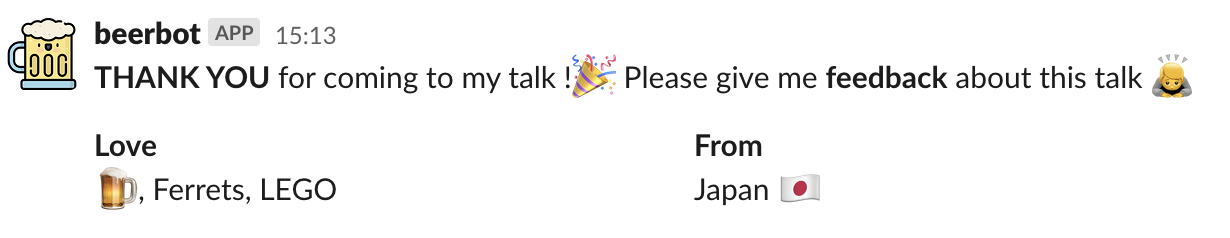
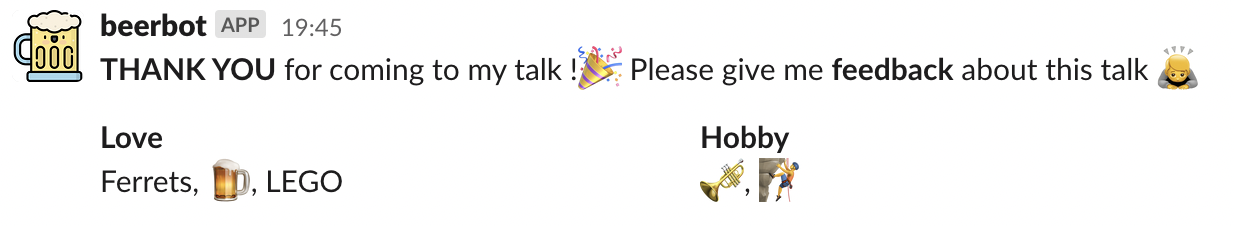
refs #69 update sample code

diff --git a/slides/20221015pyconjp/code/app-extend.py b/slides/20221015pyconjp/code/app-extend.py
@@ -22,15 +22,16 @@ def handle_cheers_message(mesasge, say):
     say("Cheers! :beers:")
 
 
-# mention
 @app.message("morning")
 def handle_morning_message(message, say):
+    """reply morning greetings with mention"""
     user = message["user"]  # get user ID
     say(f"Good morning <@{user}>!")
 
 
 @app.message(re.compile(r"choice (.*)"))
 def handle_choice(say, context):
+    """random choice from words"""
     # get matched text from context["matches"]
     words = context["matches"][0].split()
     say(random.choice(words))
@@ -38,48 +39,50 @@ def handle_choice(say, context):
 
 @app.message(re.compile(r"(\d+)\s*(beer|tea)"))
 def handle_beer_or_tea(say, context):
+    """serve a specified number of beers or teas"""
     count = int(context["matches"][0])
-    drink = context["matches"][1]
-    say(f":{drink}:" * count)
+    beer_or_tea = context["matches"][1]
+    say(f":{beer_or_tea}:" * count)
 
 
 @app.message("follow me")
 def handle_follow_me(message, say):
+    """send follow me message with icon"""
     blocks = [{
         "type": "section",
         "text": {
             "type": "mrkdwn",
-            "text": "*Takanori Suzuki*\nFollow me! <https://twitter.com/takanory|@takanory>"
+            "text": "*Takanori Suzuki*\nFollow me! <https://twitter.com/takanory|@takanory>",
         },
         "accessory": {
-            "type": "image",
+            "type": "image", "alt_text": "takanory",
             "image_url": "https://pbs.twimg.com/profile_images/192722095/kurokuri_400x400.jpg",
-            "alt_text": "takanory"
         }}]
     say(blocks=blocks)
-
-
-# A user joined a public or private channel
-@app.event("member_joined_channel")
-def member_joined(event, say):
-    user = event["user"]  # get user ID
-    say(f"Welcome <@{user}>! :tada:")
-
-
-@app.message("beer")
-def add_beer_emoji(client, message):
-    # add reaction beer emoji
-    client.reactions_add(
-        channel=message["channel"],
-        timestamp=message["ts"],
-        name="beer",
-    )
 
 
 @app.message("log")
 def handle_log(message, say, logger):
     logger.debug(f"message: {message['text']}")
     say("logs exported!")
+    
+
+# A user joined a public or private channel
+@app.event("member_joined_channel")
+def member_joined(event, say):
+    """send a welcome message to a new member"""
+    user = event["user"]  # get user ID
+    say(f"Welcome <@{user}>! :tada:")
+
+
+@app.message("beer")
+def add_beer_emoji(client, message):
+    """add :beer: emoji reaciton"""
+    client.reactions_add(
+        channel=message["channel"],
+        timestamp=message["ts"],
+        name="beer",
+    )
 
 
 if __name__ == "__main__":

diff --git a/slides/20221015pyconjp/code/app.py b/slides/20221015pyconjp/code/app.py
@@ -1,25 +1,14 @@
 import os
-import random
-import re
-
 from slack_bolt import App
 from slack_bolt.adapter.socket_mode import SocketModeHandler
 
 app = App(token=os.environ["SLACK_BOT_TOKEN"])
-
 
 # match any message contains "Hi"
 @app.message("Hi")
 def handle_hi_message(message, say):
     say("Hi!!! I am beerbot! :beer:")
 
-
-# match any message contains "cheers"
-@app.message("cheers")
-def handle_cheers_mesasge(message, say):
-    say("Cheers! :beers:")
-
-
 if __name__ == "__main__":
-    handler = SocketModeHandler(app, os.environ["SLACK_APP_TOKEN"])
-    handler.start()
+    app_token = os.environ["SLACK_APP_TOKEN"]
+    SocketModeHandler(app, app_token).start()

diff --git a/slides/20221015pyconjp/index.rst b/slides/20221015pyconjp/index.rst
@@ -52,7 +52,7 @@ Slide 💻
 
 .. raw:: html
 
-   <blockquote class="twitter-tweet"><p lang="en" dir="ltr">My talk &quot;Automate the Boring Stuff with Slackbot (ver. 2)&quot; slides are <a href="https://t.co/YfAyUxQT0e">https://t.co/YfAyUxQT0e</a> <a href="https://twitter.com/hashtag/EuroPython2022?src=hash&amp;ref_src=twsrc%5Etfw">#EuroPython2022</a></p>&mdash; Takanori Suzuki (@takanory) <a href="https://twitter.com/takanory/status/1547222521648390149?ref_src=twsrc%5Etfw">July 13, 2022</a></blockquote> <script async src="https://platform.twitter.com/widgets.js" charset="utf-8"></script> 
+   <blockquote class="twitter-tweet"><p lang="en" dir="ltr">My talk &quot;Automate the Boring Stuff with Slackbot (ver. 2)&quot; slides are <a href="https://t.co/YfAyUxQT0e">https://t.co/YfAyUxQT0e</a> <a href="https://twitter.com/hashtag/EuroPython2022?src=hash&amp;ref_src=twsrc%5Etfw">#EuroPython2022</a></p>&mdash; Takanori Suzuki (@takanory) <a href="https://twitter.com/takanory/status/1547222521648390149?ref_src=twsrc%5Etfw">July 13, 2022</a></blockquote> <script async src="https://platform.twitter.com/widgets.js" charset="utf-8"></script>
 
 .. revealjs-notes::
 
@@ -437,15 +437,16 @@ Post message with **Slack SDK**
 * see: `Formatting text for app surfaces <https://api.slack.com/reference/surfaces/formatting>`_
 
 .. revealjs-code-block:: python
-   :data-line-numbers: 4-7
+   :data-line-numbers: 4-8
 
    from slack_sdk.webhook import WebhookClient
 
    url = "https://hooks.slack.com/services/T000..."
    webhook = WebhookClient(url)
    # *bold*, <url|text>, :emoji: and etc.
-   r = webhook.send(text="*Hello* from "
-     "<https://slack.dev/python-slack-sdk/|Slack SDK>! :beer:")
+   sdk_url = "https://slack.dev/python-slack-sdk/"
+   r = webhook.send(
+       text=f"*Hello* from <{sdk_url}|Slack SDK>! :beer:")
 
 .. image:: images/webhook-formatting.gif
 
@@ -482,14 +483,14 @@ Post message with **Slack SDK**
    blocks = [{
        "type": "section",
        "text": {
-            "text": "*THANK YOU* for coming to my talk !:tada: Please give me *feedback* about this talk :bow:",
             "type": "mrkdwn"
+            "text": "*THANK YOU* for coming to my talk !:tada: Please give me *feedback* about this talk :bow:",
        },
        "fields": [
             {"type": "mrkdwn", "text": "*Love*"},
-            {"type": "mrkdwn", "text": "*From*"},
-            {"type": "plain_text", "text": ":beer:, Ferrets, LEGO"},
-            {"type": "plain_text", "text": "Japan :jp:"},
+            {"type": "mrkdwn", "text": "*Hobby*"},
+            {"type": "plain_text", "text": "Ferrets, :beer:, LEGO"},
+            {"type": "plain_text", "text": ":trumpet:, :man_climbing:"},
        ],
    }]
    response = webhook.send(blocks=blocks)
@@ -878,7 +879,7 @@ Bolt for Python
 ---------------------------------
 簡単なbotをBoltで **作成**
 
-.. literalinclude:: code/app1.py
+.. literalinclude:: code/app.py
    :language: python
    :caption: app.py
 
@@ -960,7 +961,7 @@ Use regular expression / 正規表現を使う
 .. revealjs-break::
 
 .. literalinclude:: code/app-extend.py
-   :lines: 39-45
+   :lines: 40-45
 
 .. image:: images/bot-beers.png
    :width: 70%
@@ -968,7 +969,7 @@ Use regular expression / 正規表現を使う
 Block Kit support
 -----------------
 .. literalinclude:: code/app-extend.py
-   :lines: 46-61
+   :lines: 48-61
 
 .. image:: images/bot-followme.png
    :width: 60%
@@ -976,9 +977,9 @@ Block Kit support
 Logging / ロギング
 ------------------
 .. literalinclude:: code/app-extend.py
-   :lines: 1,11,78-83
+   :lines: 1,11,63-67
 
-.. code-block:: bash
+.. code-block:: text
 
    $ python app.py
    ⚡ Bolt app is running!
@@ -1092,10 +1093,10 @@ To know user joined a channel
 
 .. literalinclude:: code/app-extend.py
    :emphasize-lines: 1-2
-   :lines: 60-66
+   :lines: 70-75
 
 .. image:: images/event-member-joined.png
-   :width: 40%
+   :width: 35%
 
 .. revealjs-notes::
 
@@ -1109,10 +1110,10 @@ Add Emoji reaction / emojiリアクション
 
 .. literalinclude:: code/app-extend.py
    :language: python
-   :lines: 67-76
+   :lines: 78-85
 
 .. image:: images/scope-reactions-write.png
-   :width: 50%
+   :width: 60%
 
 .. revealjs-notes::
 
@@ -1435,7 +1436,7 @@ System overview / システム概要
 Update Google Authorization
 ---------------------------
 Google 認証を更新
- 
+
 * Update a Google Cloud project
 
   * add **Directory API**
